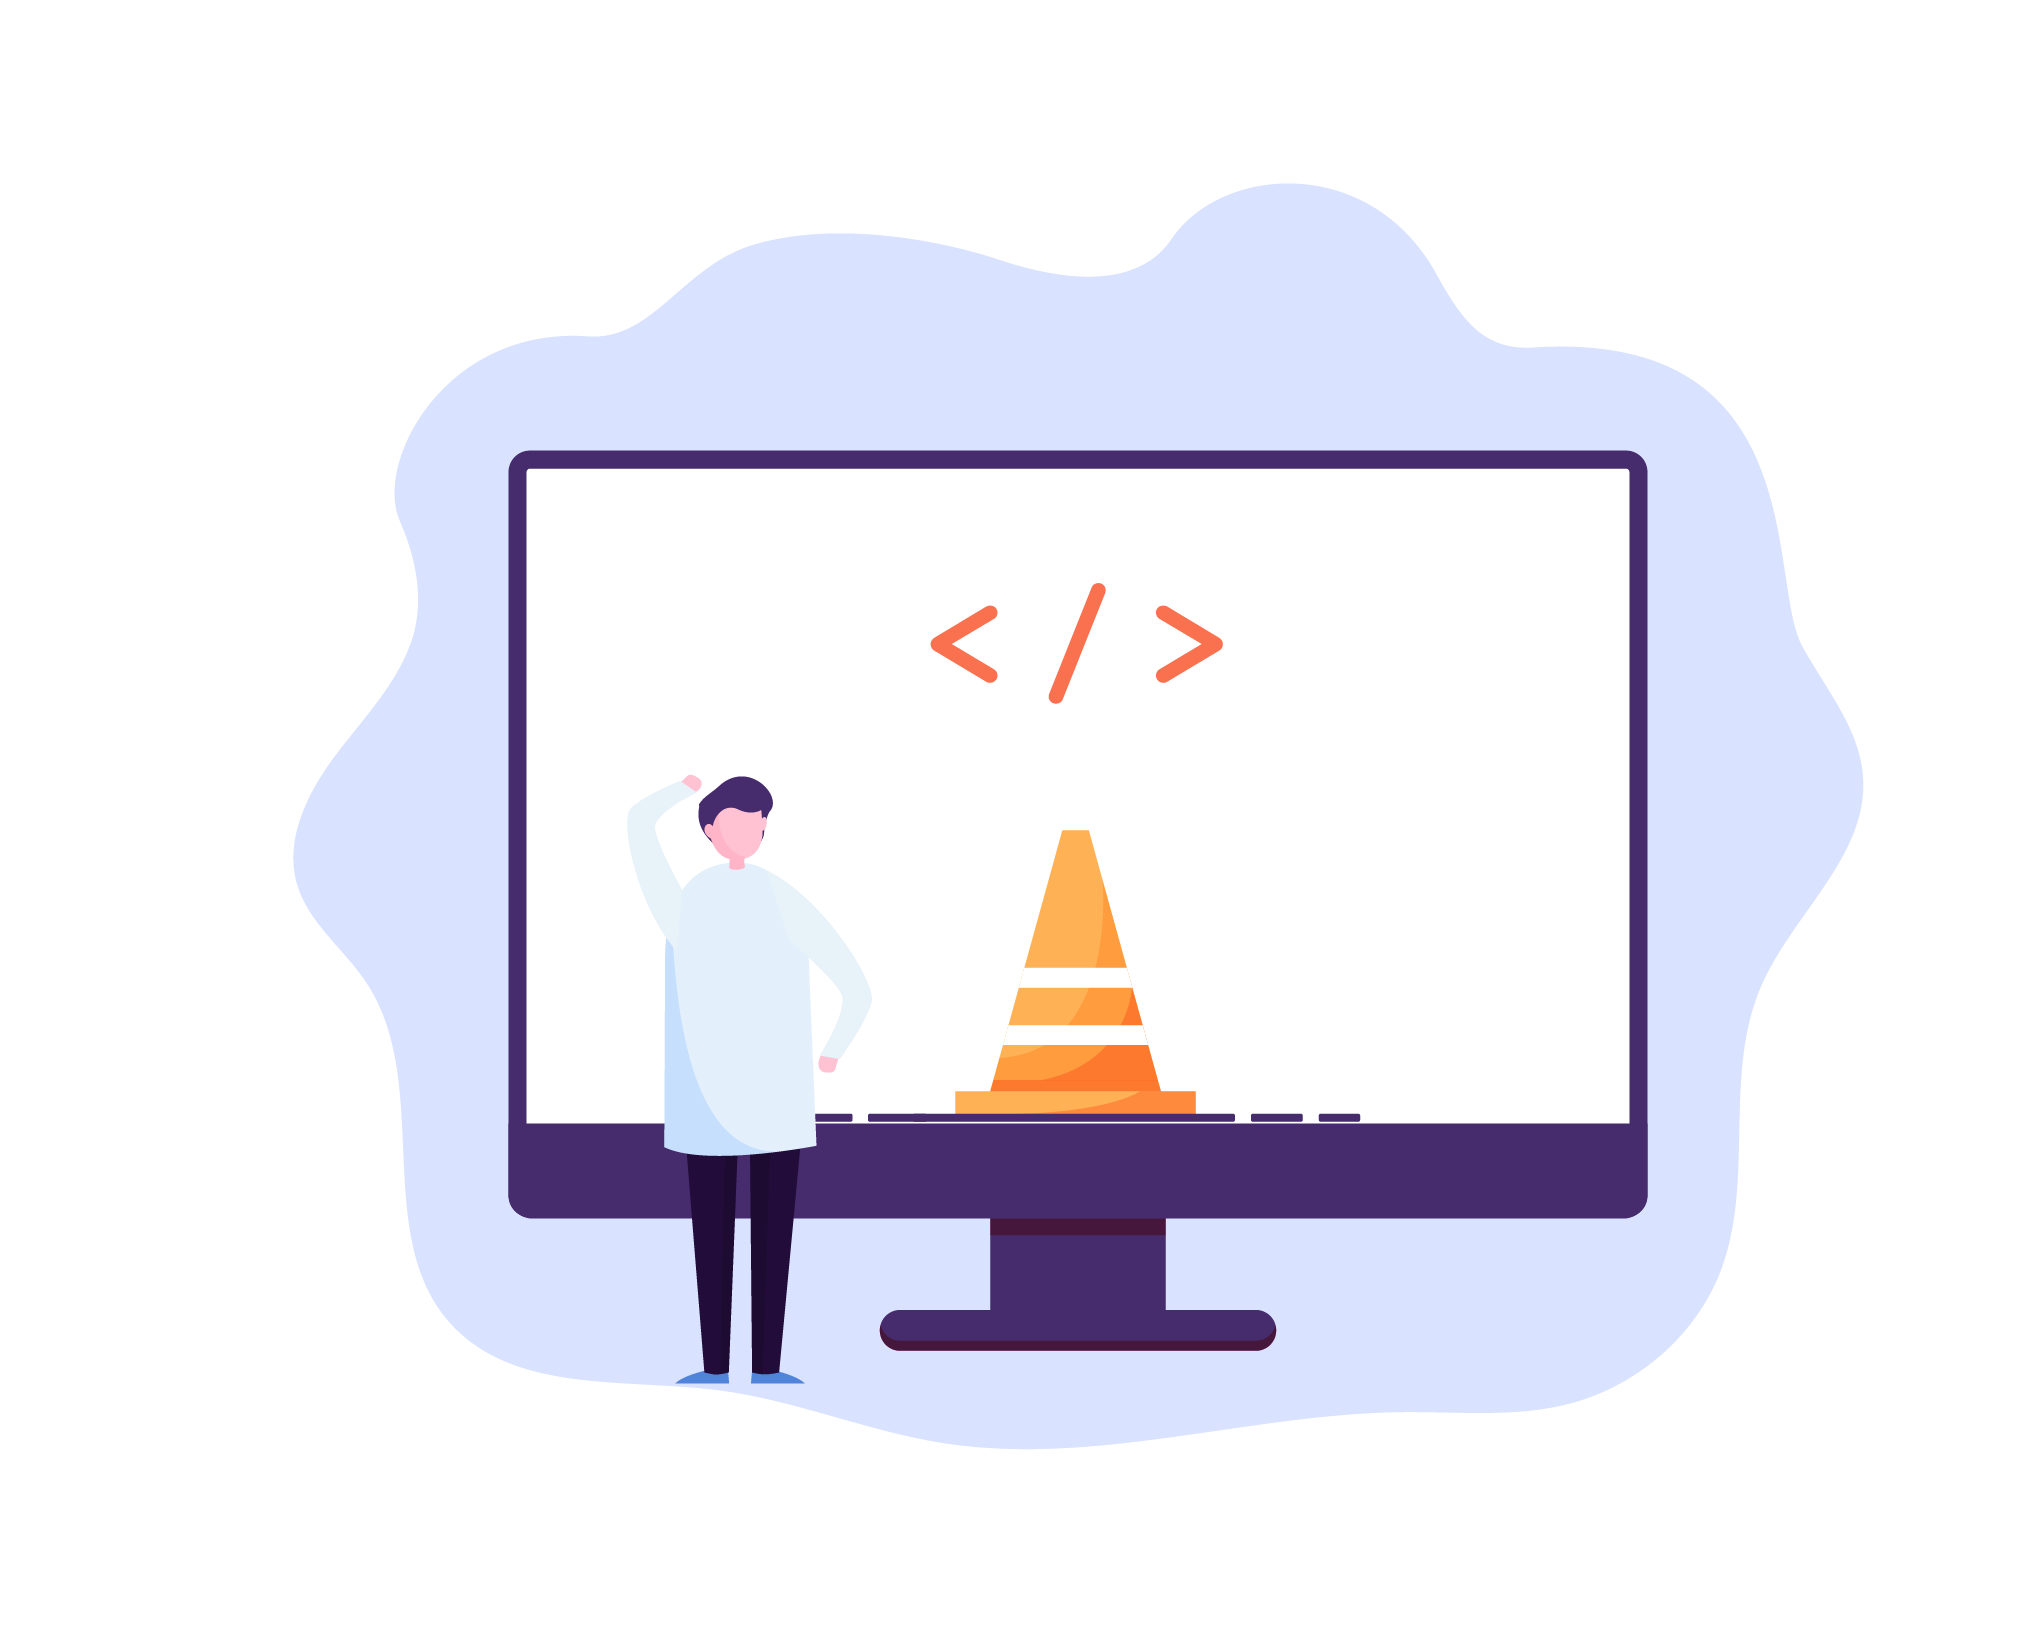
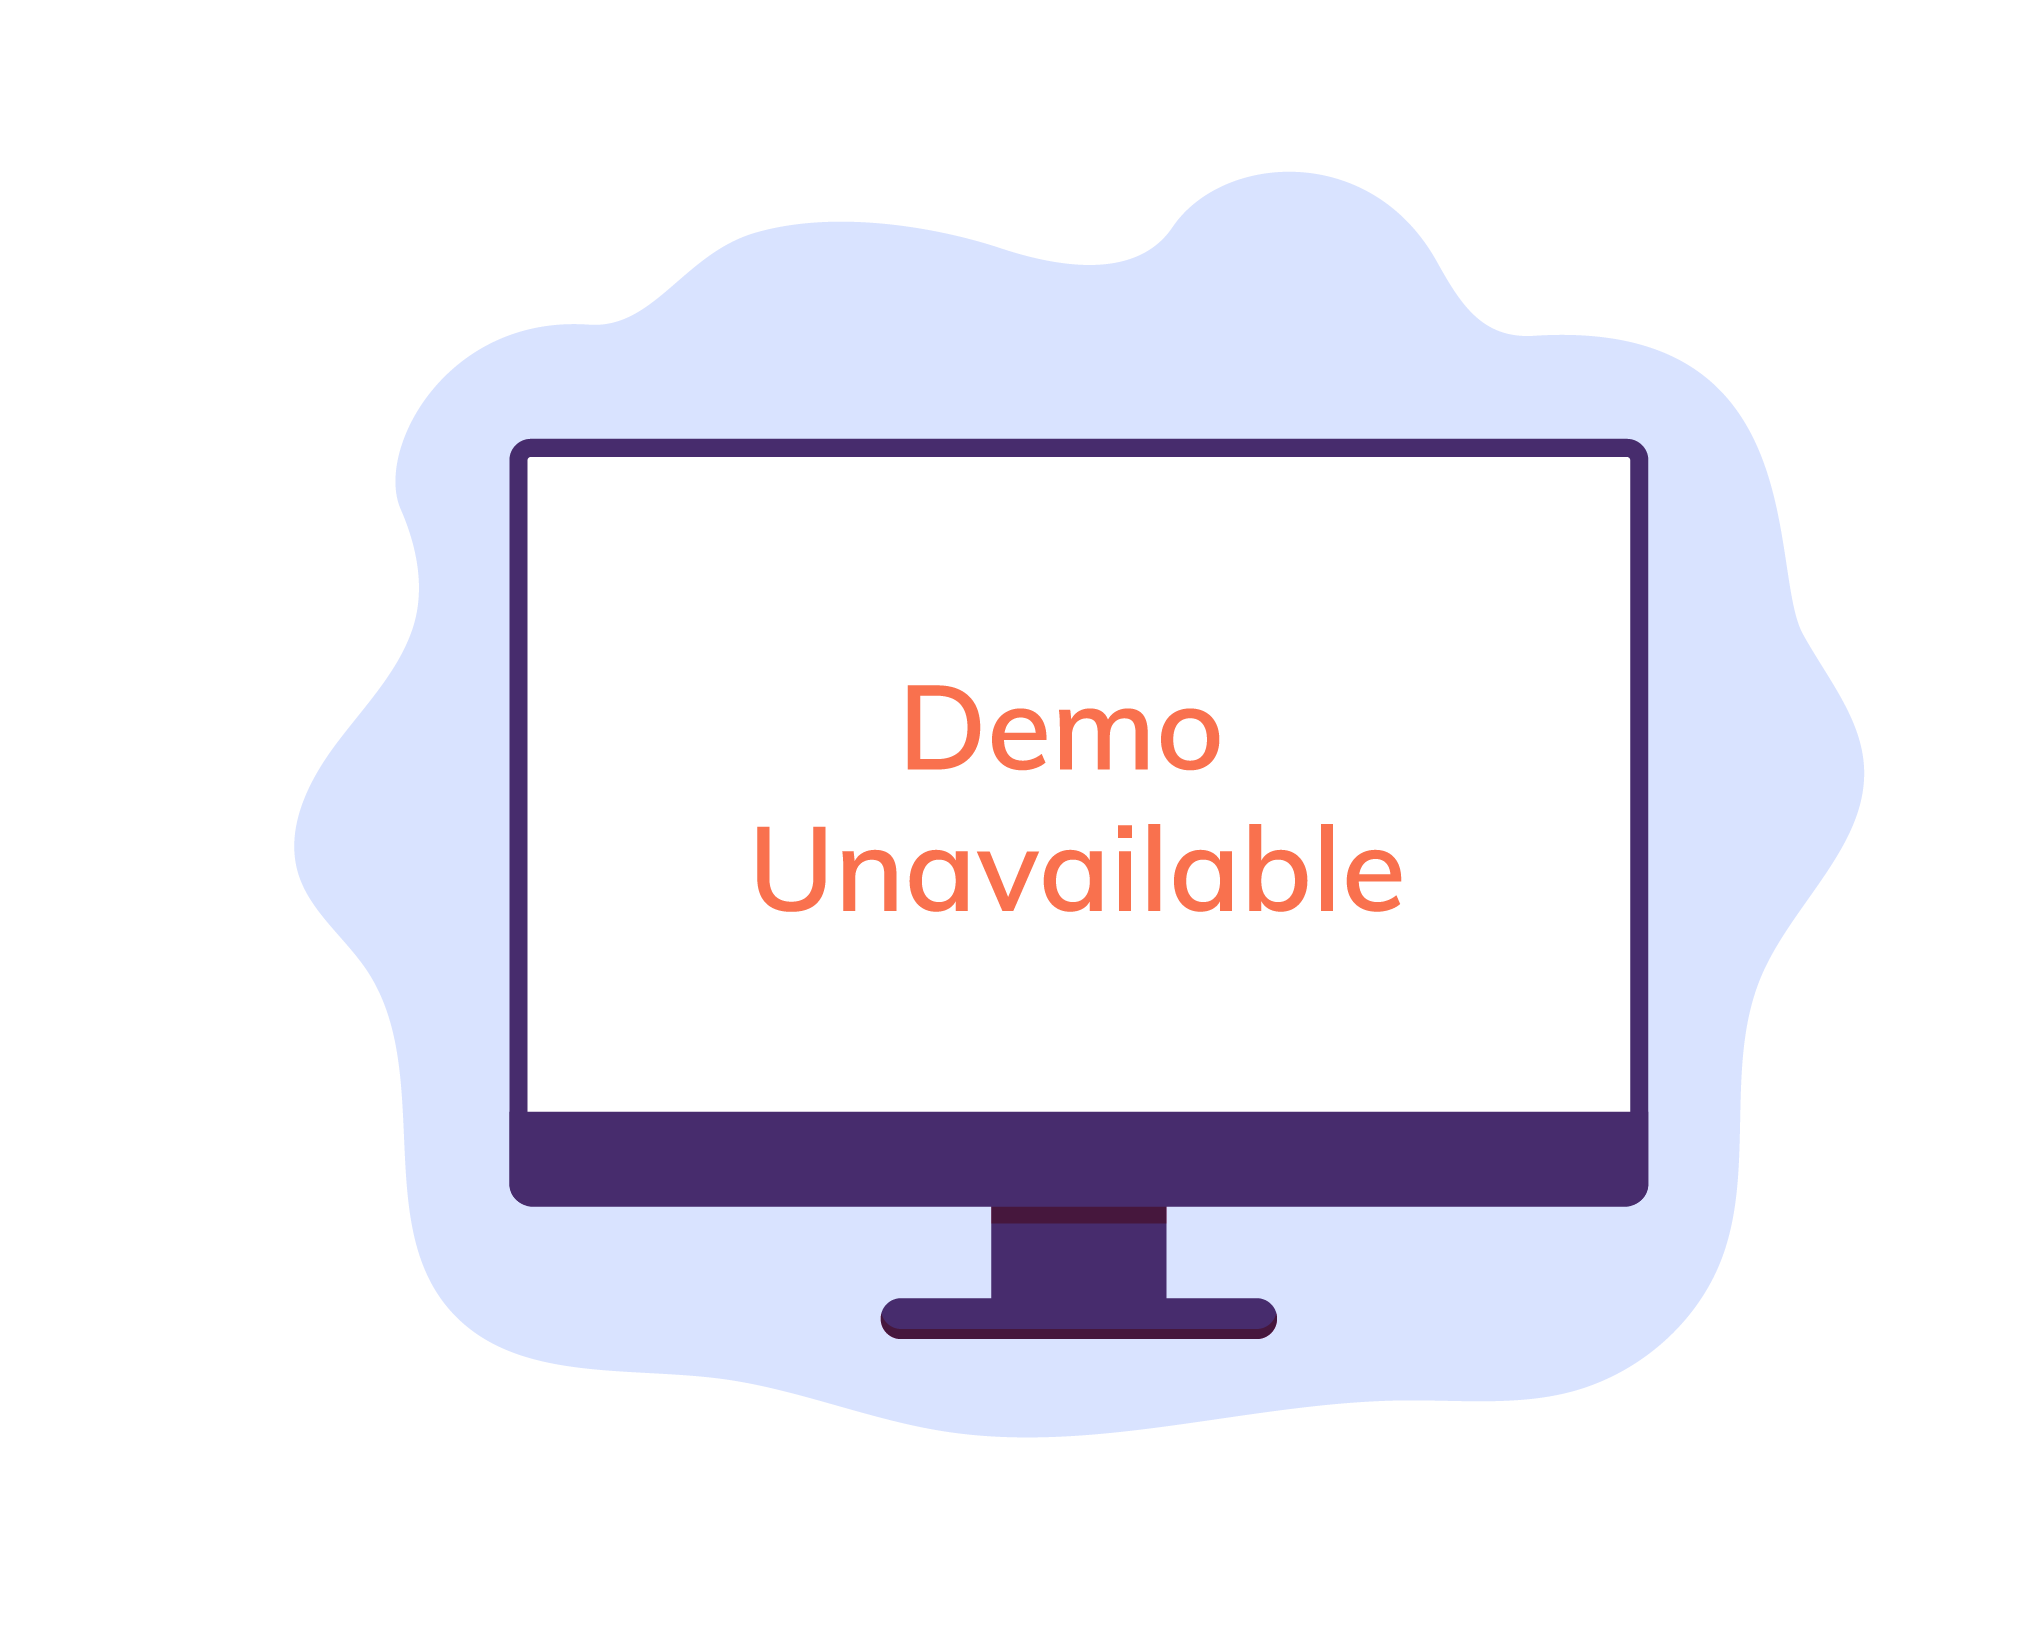
img updated, renamed the component, hidden the demo button if no ui component

diff --git a/src/components/ServiceDetails/index.js b/src/components/ServiceDetails/index.js
@@ -18,7 +18,6 @@ import ErrorBox from "../common/ErrorBox";
 import SeoMetadata from "../common/SeoMetadata";
 import Routes from "../../utility/constants/Routes";
 import CardImg from "../../assets/images/SnetDefaultServiceImage.png";
-import NoUiComponent from "../common/NoUiComponent";
 
 export const HERO_IMG = "hero_image";
 
@@ -107,10 +106,6 @@ class ServiceDetails extends Component {
       );
     }
 
-    if (!service.demo_component_available) {
-      return <NoUiComponent />;
-    }
-
     const { activeTab } = this.state;
 
     const tabs = [
@@ -124,6 +119,7 @@ class ServiceDetails extends Component {
             serviceAvailable={service.is_available}
             demoExampleRef={this.demoExampleRef}
             scrollToView={this.scrollToView}
+            noDemoComponent={!service.demo_component_available}
           />
         ),
       },
@@ -168,6 +164,7 @@ class ServiceDetails extends Component {
               serviceAvailable={service.is_available}
               pricing={pricing}
               handleDemoClick={this.handleDemoClick}
+              noDemoComponent={!service.demo_component_available}
             />
           </div>
           <StyledTabs tabs={tabs} activeTab={activeTab} onTabChange={this.handleTabChange} />

diff --git a/src/components/ServiceDetails/PricingDetails/index.js b/src/components/ServiceDetails/PricingDetails/index.js
@@ -8,7 +8,7 @@ import { useStyles } from "./styles";
 import Price from "./Price";
 import { PricingStrategy } from "../../../utility/PricingStrategy";
 
-const PricingDetails = ({ classes, pricing, serviceAvailable, handleDemoClick }) => {
+const PricingDetails = ({ classes, pricing, serviceAvailable, handleDemoClick, noDemoComponent }) => {
   const price_strategy = new PricingStrategy(pricing);
   const priceInAGI = typeof price_strategy === "undefined" ? undefined : price_strategy.getMaxPriceInAGI();
   const price_model = typeof price_strategy === "undefined" ? undefined : price_strategy.getPriceModel();
@@ -22,11 +22,13 @@ const PricingDetails = ({ classes, pricing, serviceAvailable, handleDemoClick })
         <InfoIcon className={classes.infoIcon} />
         <span>{price_model}</span>
       </p>
-      <StyledButton
-        btnText={!serviceAvailable ? "demo offline" : "demo"}
-        onClick={handleDemoClick}
-        disabled={!serviceAvailable}
-      />
+      {!noDemoComponent ? (
+        <StyledButton
+          btnText={!serviceAvailable ? "demo offline" : "demo"}
+          onClick={handleDemoClick}
+          disabled={!serviceAvailable}
+        />
+      ) : null}
     </Grid>
   );
 };

diff --git a/src/components/ServiceDetails/AboutService/index.js b/src/components/ServiceDetails/AboutService/index.js
@@ -13,7 +13,16 @@ import CreatorDetails from "../CreatorDetails";
 import ProjectDetails from "../ProjectDetails";
 import MediaGallery from "../MediaGallery";
 
-const AboutService = ({ classes, isLoggedIn, service, history, serviceAvailable, demoExampleRef, scrollToView }) => {
+const AboutService = ({
+  classes,
+  isLoggedIn,
+  service,
+  history,
+  serviceAvailable,
+  demoExampleRef,
+  scrollToView,
+  noDemoComponent,
+}) => {
   return (
     <Grid container spacing={24} className={classes.aboutContainer}>
       <Grid item xs={12} sm={8} md={8} lg={8} className={classes.leftSideSection}>
@@ -26,6 +35,7 @@ const AboutService = ({ classes, isLoggedIn, service, history, serviceAvailable,
           serviceAvailable={serviceAvailable}
           demoExampleRef={demoExampleRef}
           scrollToView={scrollToView}
+          noDemoComponent={noDemoComponent}
         />
         <div className={classes.backToLink}>
           <ArrowBackIcon />

diff --git a/src/components/ServiceDetails/AboutService/DemoToggler.js b/src/components/ServiceDetails/AboutService/DemoToggler.js
@@ -7,6 +7,7 @@ import ServiceDemo from "./ServiceDemo";
 import Routes from "../../../utility/constants/Routes";
 import serviceOfflineImg from "../../../assets/images/Artboard.png";
 import signInImg from "../../../assets/images/signIn.png";
+import NoDemoComponent from "../../common/NoDemoComponent";
 
 import { useStyles } from "./styles";
 
@@ -19,6 +20,7 @@ const DemoToggler = ({
   serviceAvailable,
   demoExampleRef,
   scrollToView,
+  noDemoComponent,
 }) => {
   if (!showDemo) {
     return (
@@ -63,6 +65,15 @@ const DemoToggler = ({
             <StyledButton btnText="contact support" type="transparent" />
           </div>
         </div>
+      </div>
+    );
+  }
+
+  if (noDemoComponent) {
+    return (
+      <div className={classes.serviceOfflineContainer}>
+        <h2>Demo Example</h2>
+        <NoDemoComponent />;
       </div>
     );
   }

diff --git a/src/components/common/NoDemoComponent/index.js b/src/components/common/NoDemoComponent/index.js
@@ -1,0 +1,14 @@
+import React from "react";
+import { withStyles } from "@material-ui/styles";
+import NoDemoComponentImg from "../../../assets/images/NoUiComponent.png";
+import { useStyles } from "./styles";
+
+const NoDemoComponent = ({ classes }) => {
+  return (
+    <div className={classes.noDemoComponentContainer}>
+      <img src={NoDemoComponentImg} alt="No UI Component" loading="lazy" />
+    </div>
+  );
+};
+
+export default withStyles(useStyles)(NoDemoComponent);

diff --git a/src/components/common/NoDemoComponent/styles.js b/src/components/common/NoDemoComponent/styles.js
@@ -1,15 +1,12 @@
 export const useStyles = theme => ({
-  noUiComponentContainer: {
-    boxSizing: "border-box",
+  noDemoComponentContainer: {
     width: "100%",
-    minHeight: "calc(100vh - 335px)",
-    padding: "40px 0 60px",
     display: "flex",
     justifyContent: "center",
     flexDirection: "column",
     textAlign: "center",
     "& img": {
-      width: 300,
+      width: "50%",
       margin: "auto",
     },
     "& > span": {
